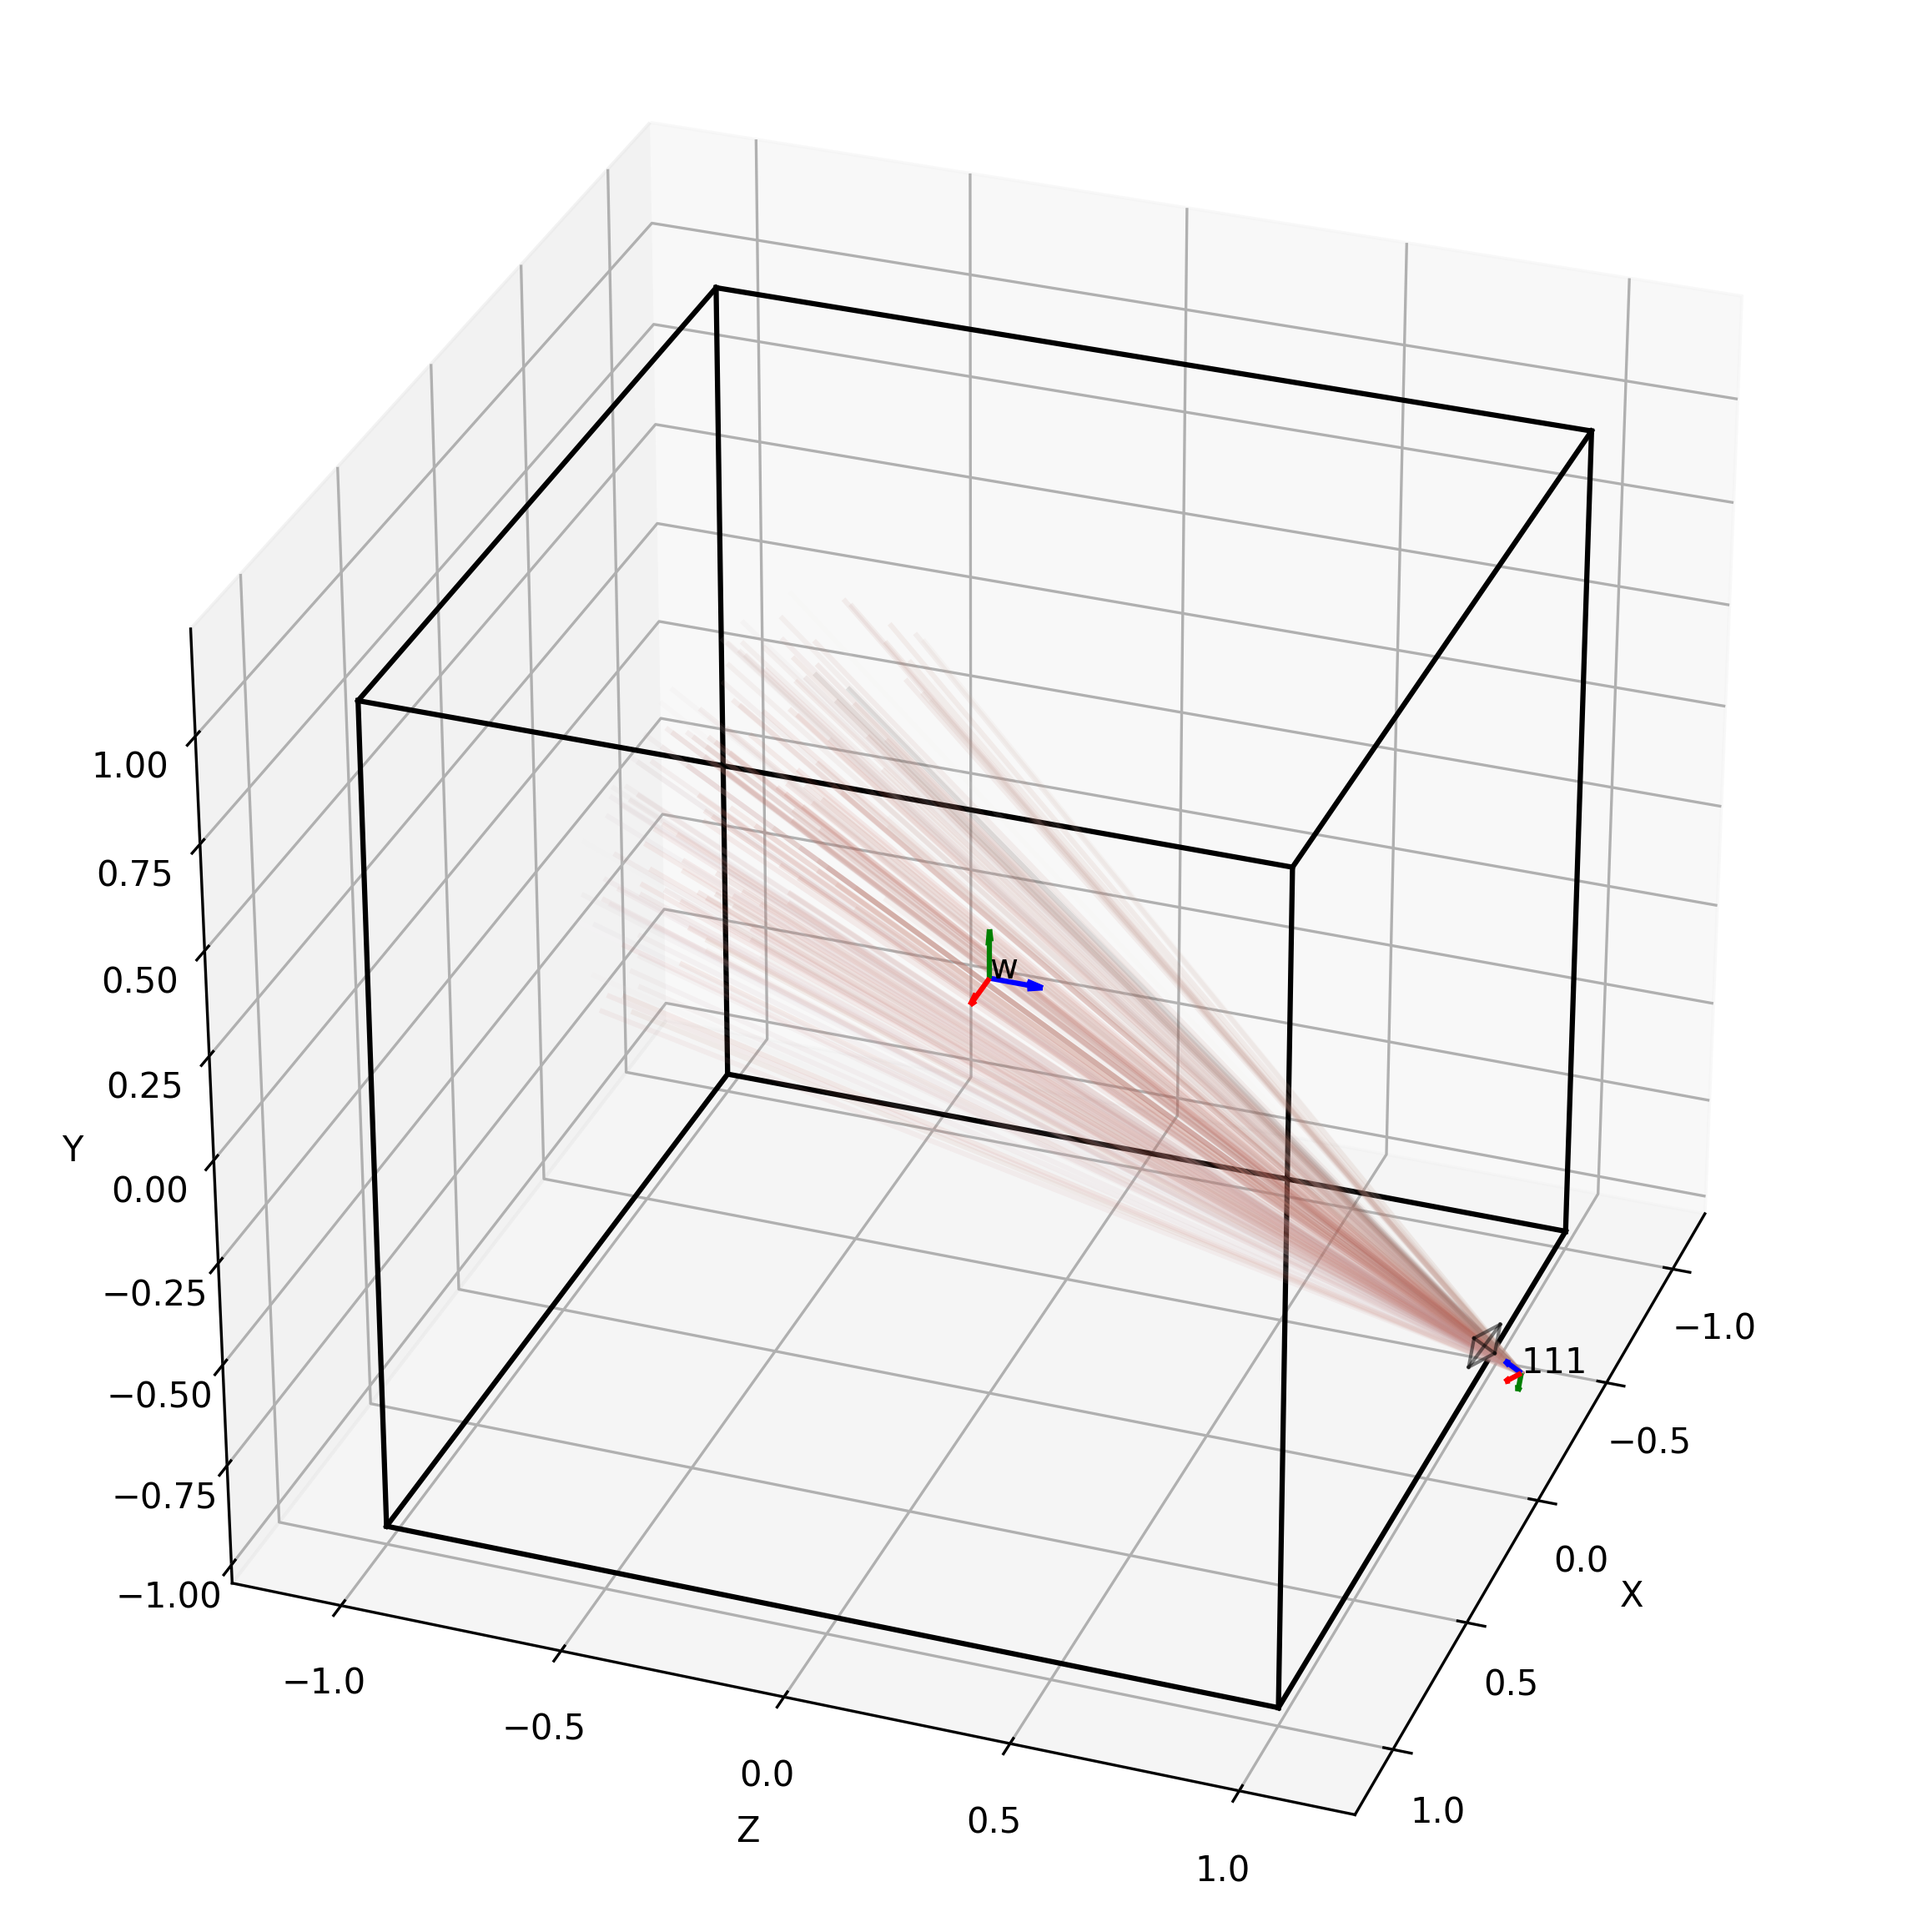
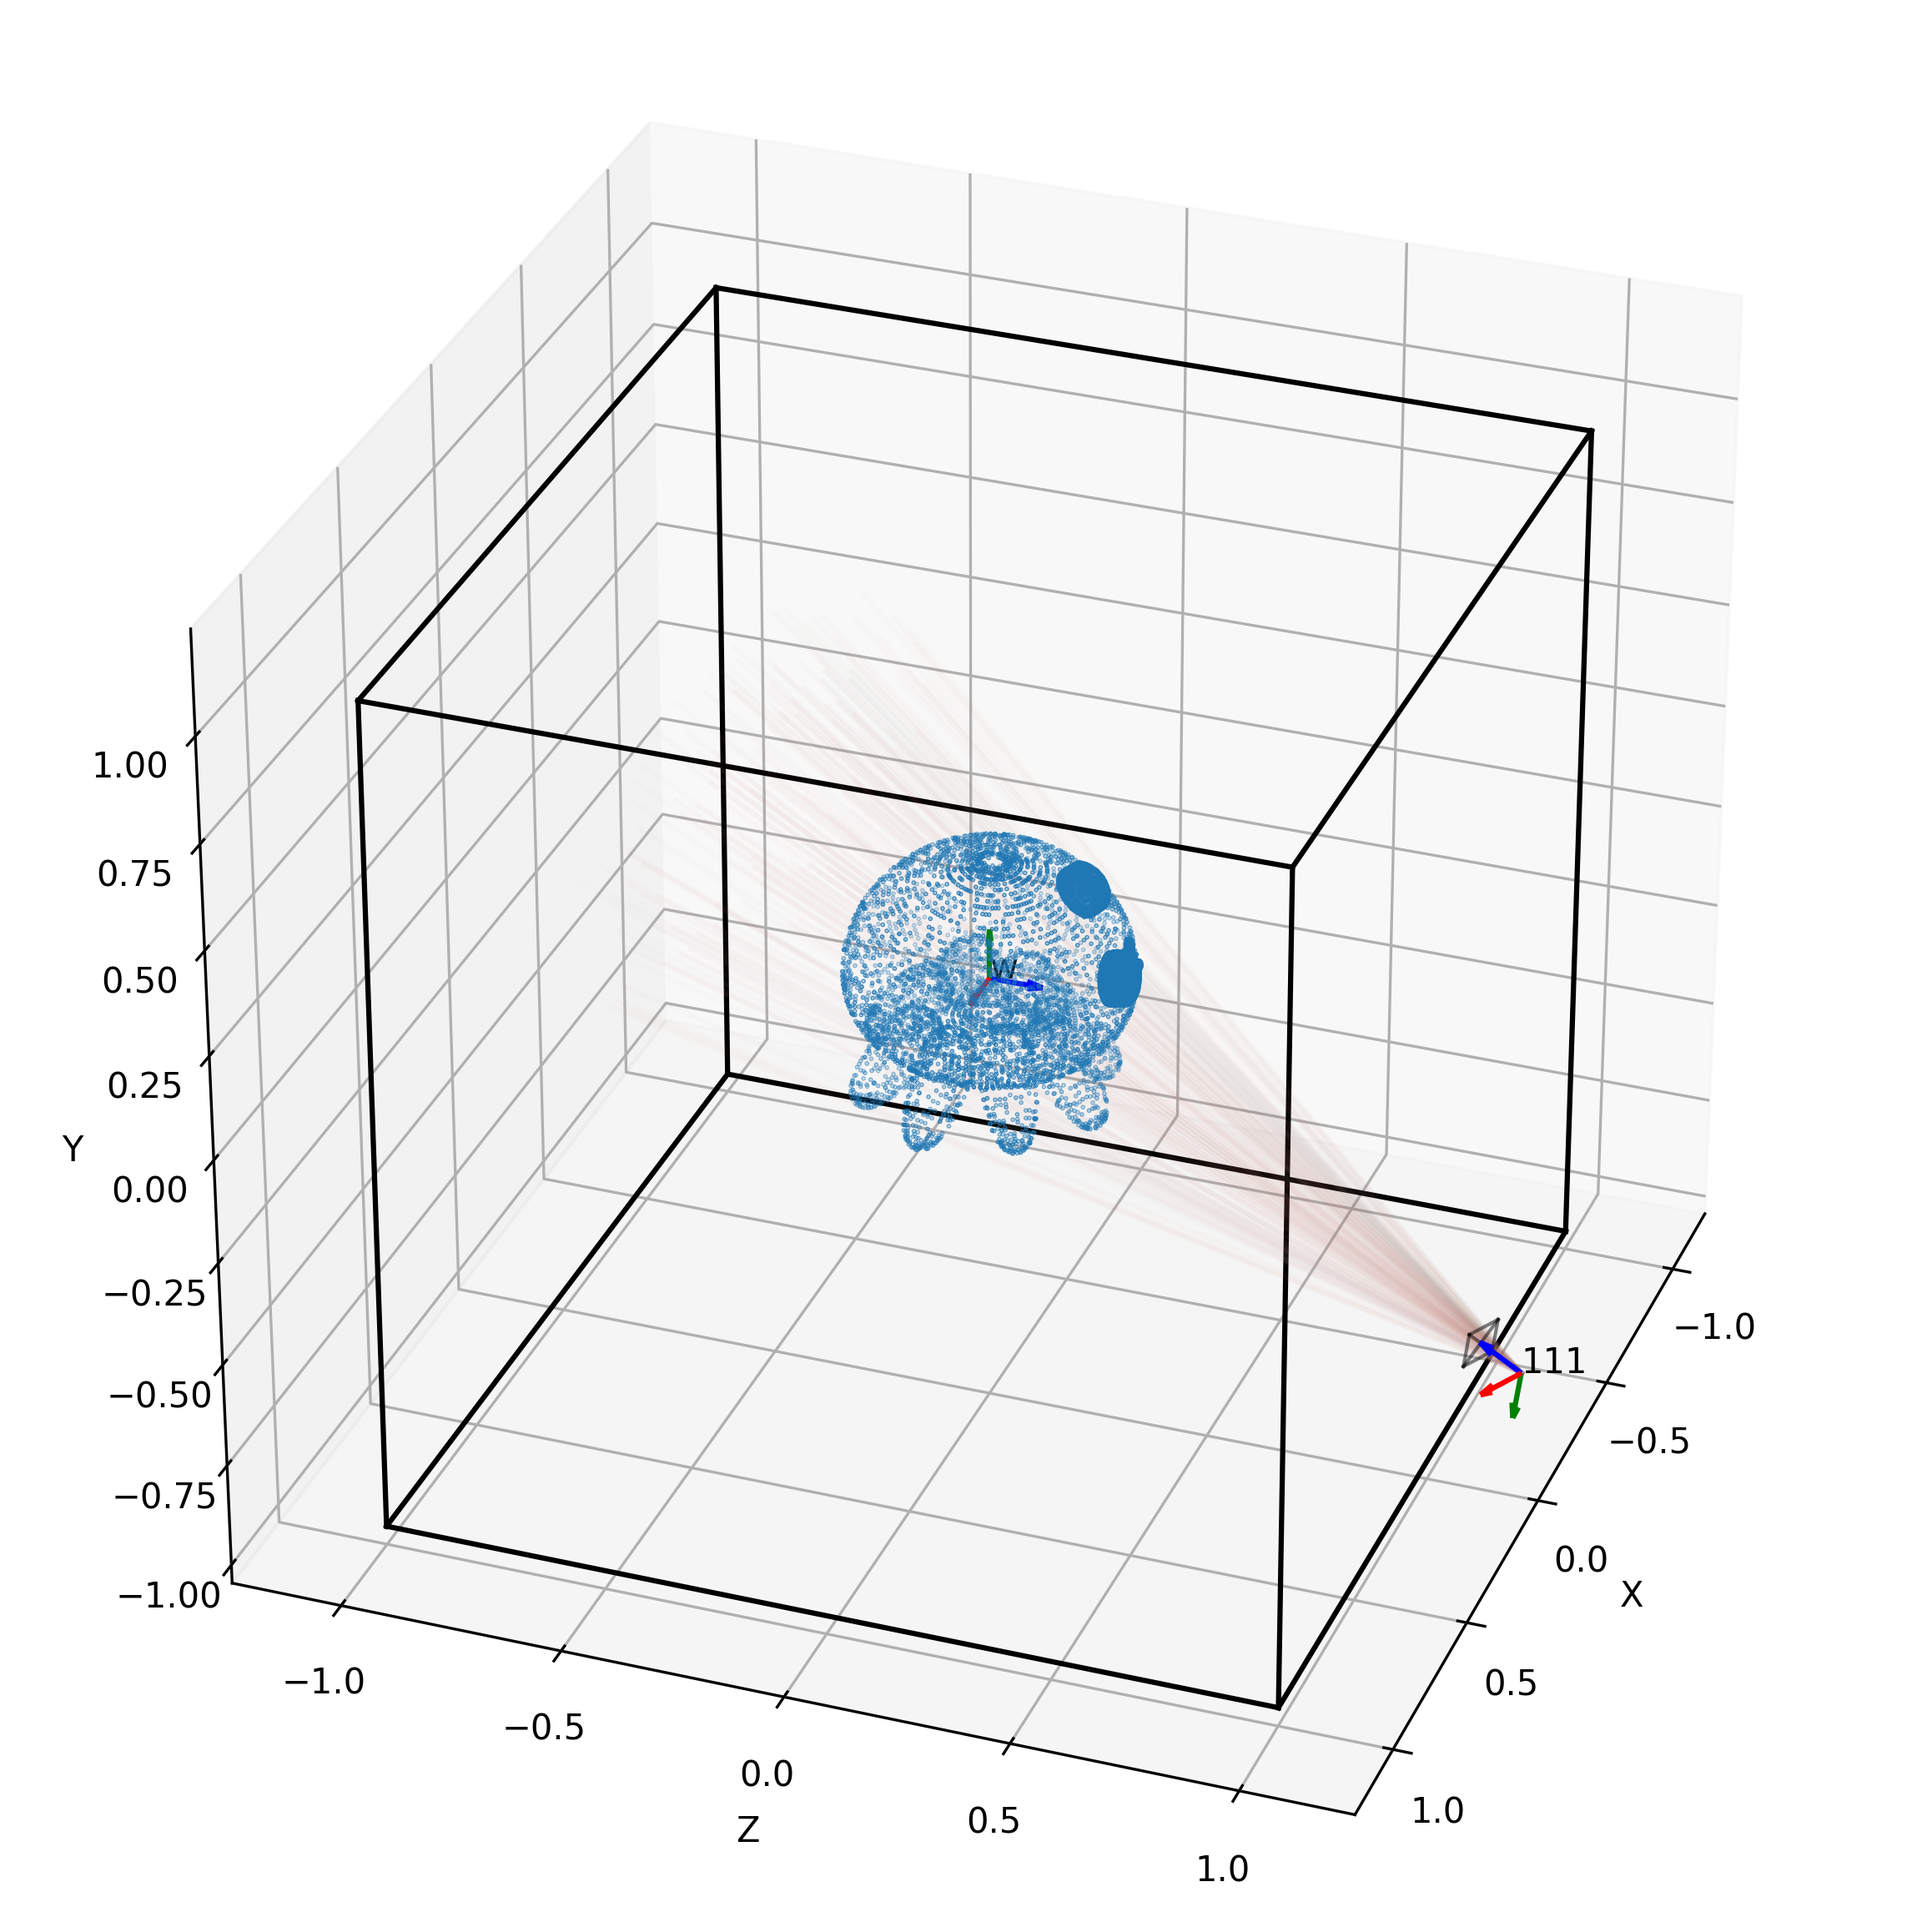
minor fixes

Changed region(s): [[0.3429, 0.374, 0.7792, 0.7169]]

diff --git a/tests/cameras_sampling.py b/tests/cameras_sampling.py
@@ -1,11 +1,10 @@
-import numpy
+import numpy as np
 import PIL
 import os
 import sys
 import time
 import torch
 from copy import deepcopy
-import numpy as np
 import matplotlib.pyplot as plt
 import open3d as o3d
 from tqdm import tqdm
@@ -19,94 +18,8 @@ from mvdatasets.utils.plotting import plot_current_batch
 from mvdatasets.mvdataset import MVDataset
 from mvdatasets.utils.profiler import Profiler
 from mvdatasets.utils.common import get_dataset_test_preset
-from mvdatasets.scenes.camera import Camera
 from mvdatasets.utils.tensor_reel import TensorReel
-
-import numpy as np
-# from scipy.spatial.transform import Rotation as R
-
-
-def look_at(eye, center, up):
-    """Compute camera pose from look at vectors
-    args:
-        eye (np.ndarray) : (3,) camera position
-        center (np.ndarray) : (3,) point to look at
-        up (np.ndarray) : (3,) up vector
-    out:
-        pose (np.ndarray) : (4, 4) camera pose
-    """
-    
-    assert eye.shape == (3,)
-    assert center.shape == (3,)
-    assert up.shape == (3,)
-    
-    # get camera frame
-    z = eye - center
-    z = z / np.linalg.norm(z)
-    x = np.cross(up, z)
-    x = x / np.linalg.norm(x)
-    y = np.cross(z, x)
-    y = y / np.linalg.norm(y)
-    
-    # get rotation matrix
-    rotation = np.eye(3)
-    rotation[:3, 0] = x
-    rotation[:3, 1] = y
-    rotation[:3, 2] = z
-    
-    return rotation
-
-
-def sample_cameras_on_hemisphere(intrinsics, width, height, radius=1, nr_cameras=10):
-    
-    # # azimuth_deg = np.linspace(0, 360, nr_cameras, endpoint=False)
-    # # elevation_deg = np.linspace(0, 45, nr_cameras, endpoint=False)
-    # azimuth_deg = np.random.uniform(0, 360, nr_cameras)
-    # elevation_deg = np.random.uniform(-90, 90, nr_cameras)
-    # azimuth_rad = deg2rad(azimuth_deg)
-    # elevation_rad = deg2rad(elevation_deg)
-    # x = np.cos(azimuth_rad) * np.cos(elevation_rad) * radius
-    # y = np.sin(azimuth_rad) * np.cos(elevation_rad) * radius
-    # z = np.sin(elevation_rad) * radius
-    # x = np.array(x)
-    # y = np.array(y)
-    # z = np.array(z)
-    # cameras_centers = np.column_stack((x, y, z))
-    
-    points = np.random.uniform(-1, 1, (nr_cameras, 3))
-    points = points / np.linalg.norm(points, axis=1, keepdims=True)
-    cameras_centers = points * radius
-    
-    up = np.array([0, 1, 0])
-    center = np.array([0, 0, 0])
-    
-    cameras = []
-    for i in range(nr_cameras):
-
-        # get rotation matrix from azimuth and elevation
-        pose = np.eye(4)
-        rotation = look_at(cameras_centers[i], center, up)
-        pose[:3, :3] = rotation
-        pose[:3, 3] = cameras_centers[i]
-        
-        # local transform
-        local_transform = np.eye(4)
-        local_transform[:3, :3] = np.array([[-1, 0, 0],
-                                            [0, -1, 0],
-                                            [0, 0, -1]], dtype=np.float32)
-    
-        camera = Camera(
-                            intrinsics,
-                            pose,
-                            width=width,
-                            height=height,
-                            local_transform=local_transform,
-                            camera_idx=i
-                        )
-        cameras.append(camera)
-    
-    return cameras
-
+from mvdatasets.utils.virtual_cameras import sample_cameras_on_hemisphere
 
 if __name__ == "__main__":
 
@@ -228,7 +141,7 @@ if __name__ == "__main__":
             print("rays_d", rays_d.shape, rays_d.device)
             
             fig = plot_current_batch(
-                mv_data["train"],
+                sampled_cameras,
                 camera_idx,
                 rays_o,
                 rays_d,

diff --git a/mvdatasets/utils/virtual_cameras.py b/mvdatasets/utils/virtual_cameras.py
@@ -1,0 +1,58 @@
+import numpy as np
+
+from mvdatasets.scenes.camera import Camera
+from mvdatasets.utils.geometry import look_at, deg2rad
+
+
+def sample_cameras_on_hemisphere(
+        intrinsics, width, height,
+        radius=1, nr_cameras=10,
+        up=np.array([0, 1, 0]),
+        center=np.array([0, 0, 0])
+    ):
+    
+    # # azimuth_deg = np.linspace(0, 360, nr_cameras, endpoint=False)
+    # # elevation_deg = np.linspace(0, 45, nr_cameras, endpoint=False)
+    azimuth_deg = np.random.uniform(0, 360, nr_cameras)
+    elevation_deg = np.random.uniform(-90, 90, nr_cameras)
+    print("ele", elevation_deg)
+    azimuth_rad = deg2rad(azimuth_deg)
+    elevation_rad = deg2rad(elevation_deg)
+    x = np.cos(azimuth_rad) * np.cos(elevation_rad) * radius
+    y = np.sin(elevation_rad) * radius # y is up
+    z = np.sin(azimuth_rad) * np.cos(elevation_rad) * radius
+    x = np.array(x)
+    y = np.array(y)
+    z = np.array(z)
+    cameras_centers = np.column_stack((x, y, z))
+    
+    # points = np.random.uniform(-1, 1, (nr_cameras, 3))
+    # points = points / np.linalg.norm(points, axis=1, keepdims=True)
+    # cameras_centers = points * radius
+    
+    cameras = []
+    for i in range(nr_cameras):
+
+        # get rotation matrix from azimuth and elevation
+        pose = np.eye(4)
+        rotation = look_at(cameras_centers[i], center, up)
+        pose[:3, :3] = rotation
+        pose[:3, 3] = cameras_centers[i]
+        
+        # local transform
+        local_transform = np.eye(4)
+        local_transform[:3, :3] = np.array([[-1, 0, 0],
+                                            [0, -1, 0],
+                                            [0, 0, -1]], dtype=np.float32)
+    
+        camera = Camera(
+                            intrinsics,
+                            pose,
+                            width=width,
+                            height=height,
+                            local_transform=local_transform,
+                            camera_idx=i
+                        )
+        cameras.append(camera)
+    
+    return cameras

diff --git a/mvdatasets/utils/plotting.py b/mvdatasets/utils/plotting.py
@@ -181,7 +181,7 @@ def plot_camera_rays(
         
     if "mask" not in vals:
         # set to ones
-        mask = np.ones((camera.height, camera.width, 1)).reshape(-1, 1)
+        mask = np.ones((camera.height, camera.width, 1)).reshape(-1, 1) * 0.5
     else:
         mask = vals["mask"]
     
@@ -288,7 +288,7 @@ def plot_camera_rays(
             [start_point[1], end_point[1]] if up == "z" else [start_point[2], end_point[2]],
             [start_point[2], end_point[2]] if up == "z" else [start_point[1], end_point[1]],
             color=color,
-            alpha=0.3 * min(0.1, float(alpha)),
+            alpha=0.3 * float(alpha),
         )
 
     # draw image plane
@@ -387,7 +387,7 @@ def plot_current_batch(
         mask = mask.cpu().numpy()
     else:
         # if mask is not given, set to ones
-        mask = np.ones((rays_o.shape[0], 1))
+        mask = np.ones((rays_o.shape[0], 1)) * 0.5
 
     # get unique camera idxs
     unique_cameras_idx = np.unique(cameras_idx, axis=0)
@@ -488,7 +488,7 @@ def plot_current_batch(
             [start_point[1], end_point[1]] if up == "z" else [start_point[2], end_point[2]],
             [start_point[2], end_point[2]] if up == "z" else [start_point[1], end_point[1]],
             color=color,
-            alpha=0.3 * min(0.1, float(alpha)),
+            alpha=0.3 * float(alpha),
         )
 
     lim = scene_radius
@@ -563,9 +563,6 @@ def plot_points_2d_on_image(
     points_2d -= 0.5  # to avoid imshow shift
     plt.scatter(points_2d[:, 0], points_2d[:, 1], s=10, c=rgb, marker=".")
     plt.gca().set_aspect("equal", adjustable="box")
-    
-    print("camera.width", camera.width)
-    print("camera.height", camera.height)
     
     if show_ticks:
         plt.xticks(np.arange(-0.5, camera.width, 1), minor=True)

diff --git a/mvdatasets/utils/geometry.py b/mvdatasets/utils/geometry.py
@@ -206,6 +206,37 @@ def camera_to_points_3d_distance(camera, points_3d):
     
     return points_3d_norm
     
+    
+def look_at(eye, center, up):
+    """Compute camera pose from look at vectors
+    args:
+        eye (np.ndarray) : (3,) camera position
+        center (np.ndarray) : (3,) point to look at
+        up (np.ndarray) : (3,) up vector
+    out:
+        pose (np.ndarray) : (4, 4) camera pose
+    """
+    
+    assert eye.shape == (3,)
+    assert center.shape == (3,)
+    assert up.shape == (3,)
+    
+    # get camera frame
+    z = eye - center
+    z = z / np.linalg.norm(z)
+    x = np.cross(up, z)
+    x = x / np.linalg.norm(x)
+    y = np.cross(z, x)
+    y = y / np.linalg.norm(y)
+    
+    # get rotation matrix
+    rotation = np.eye(3)
+    rotation[:3, 0] = x
+    rotation[:3, 1] = y
+    rotation[:3, 2] = z
+    
+    return rotation
+
 
 ############################################
 # from https://github.com/colmap/colmap/blob/main/scripts/python/read_write_model.py#L523

diff --git a/tests/tensor_reel.py b/tests/tensor_reel.py
@@ -57,7 +57,7 @@ if __name__ == "__main__":
 
     tensor_reel = TensorReel(mv_data["train"], device=device)
 
-    benchmark = True
+    benchmark = False
     batch_size = 512
     nr_iterations = 10
     cameras_idx = None
@@ -113,7 +113,7 @@ if __name__ == "__main__":
             )
 
             # plt.show()
-            frame_path = os.path.join("plots", f"{dataset_name}_static_scenes_batch_{i}.png")
+            frame_path = os.path.join("plots", f"{dataset_name}_batch_{i}.png")
             plt.savefig(
                 frame_path,
                 bbox_inches="tight",

diff --git a/tests/train_test_splits.py b/tests/train_test_splits.py
@@ -1,11 +1,10 @@
-import numpy
+import numpy as np
 import PIL
 import os
 import sys
 import time
 import torch
 from copy import deepcopy
-import numpy as np
 import matplotlib.pyplot as plt
 import open3d as o3d
 from tqdm import tqdm
